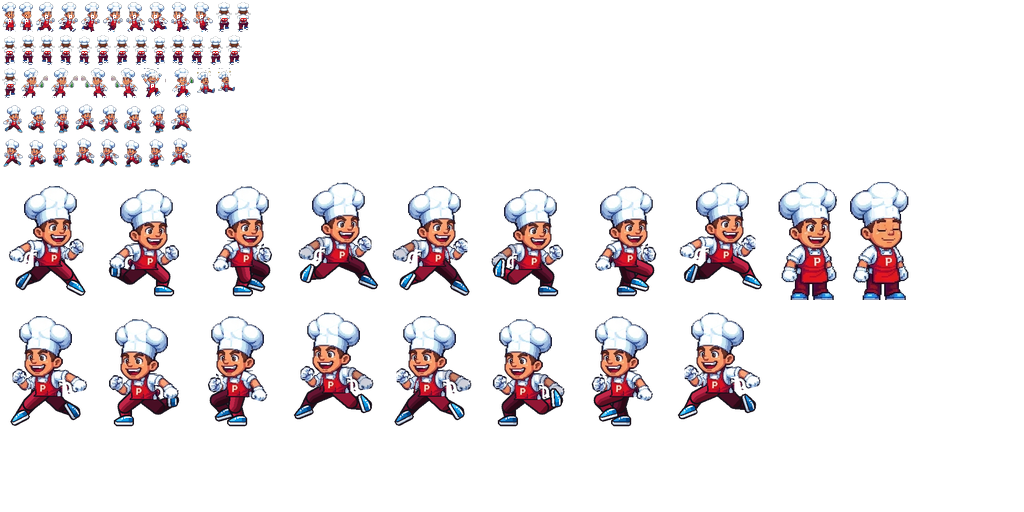
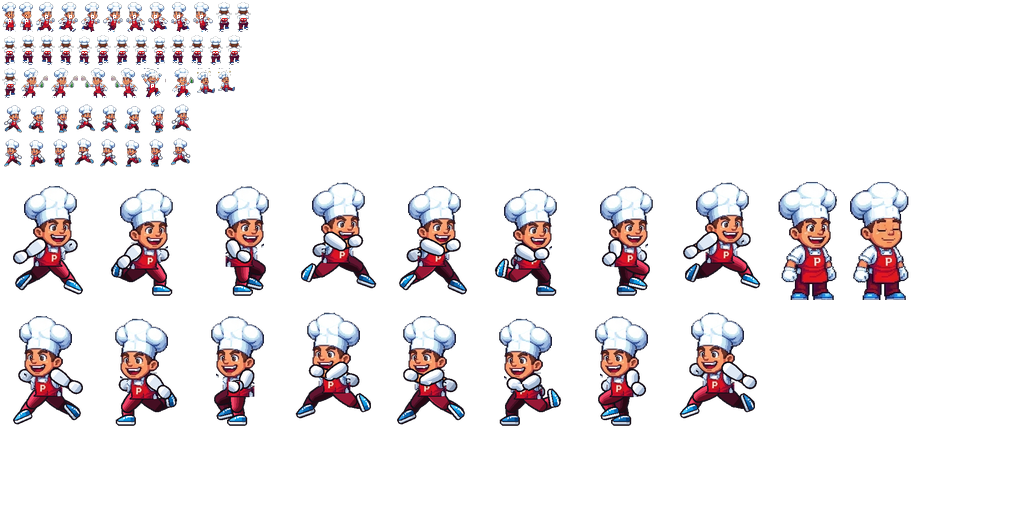
feat(sprites): animar braceo activo de corredor y suavizar anatomia natural de piernas en Chef Pepe (v98)

diff --git a/index.html b/index.html
@@ -189,20 +189,20 @@
   </div>
 
   <!-- Game Scripts -->
-  <script src="js/chef_atlas.js?v=97"></script>
-  <script src="js/enemies_atlas.js?v=97"></script>
-  <script src="js/items_atlas.js?v=97"></script>
-  <script src="js/kiloburner_atlas.js?v=97"></script>
-  <script src="js/audio.js?v=97"></script>
-  <script src="js/sprites.js?v=97"></script>
-  <script src="js/kiloburner.js?v=97"></script>
-  <script src="js/map.js?v=97"></script>
-  <script src="js/burger.js?v=97"></script>
-  <script src="js/entities.js?v=97"></script>
-  <script src="js/stage_themes.js?v=97"></script>
-  <script src="js/controls.js?v=97"></script>
-  <script src="js/godot_gfx_engine.js?v=97"></script>
-  <script src="js/game.js?v=97"></script>
+  <script src="js/chef_atlas.js?v=98"></script>
+  <script src="js/enemies_atlas.js?v=98"></script>
+  <script src="js/items_atlas.js?v=98"></script>
+  <script src="js/kiloburner_atlas.js?v=98"></script>
+  <script src="js/audio.js?v=98"></script>
+  <script src="js/sprites.js?v=98"></script>
+  <script src="js/kiloburner.js?v=98"></script>
+  <script src="js/map.js?v=98"></script>
+  <script src="js/burger.js?v=98"></script>
+  <script src="js/entities.js?v=98"></script>
+  <script src="js/stage_themes.js?v=98"></script>
+  <script src="js/controls.js?v=98"></script>
+  <script src="js/godot_gfx_engine.js?v=98"></script>
+  <script src="js/game.js?v=98"></script>
 
   <!-- Service Worker Registration for Offline Play & PWA -->
   <script>

diff --git a/js/sprites.js b/js/sprites.js
@@ -37,13 +37,13 @@ class SpriteManager {
 
   initAtlas() {
     this.atlasImg = new Image();
-    this.atlasImg.src = 'assets/chef_atlas.png?v=97';
+    this.atlasImg.src = 'assets/chef_atlas.png?v=98';
     this.atlasLoaded = false;
     this.atlasImg.onload = () => {
       this.atlasLoaded = true;
     };
     this.atlasImg.onerror = () => {
-      this.atlasImg.src = 'assets/peter_atlas.png?v=97';
+      this.atlasImg.src = 'assets/peter_atlas.png?v=98';
     };
   }
 

diff --git a/sw.js b/sw.js
@@ -1,4 +1,4 @@
-const CACHE_NAME = 'burgerpanic-mobile-v97';
+const CACHE_NAME = 'burgerpanic-mobile-v98';
 const ASSETS = [
   './',
   './index.html',
